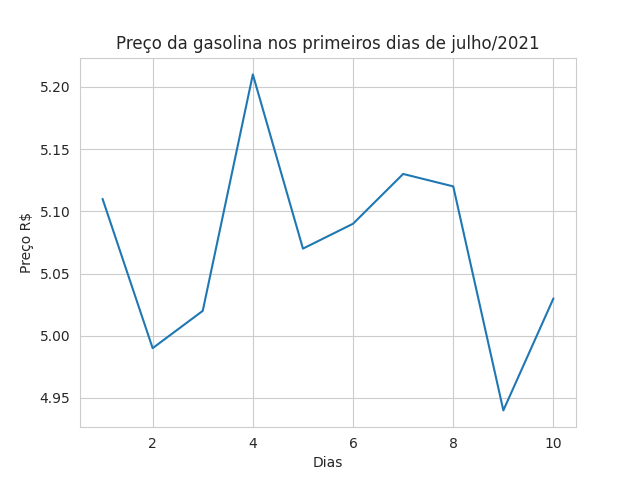
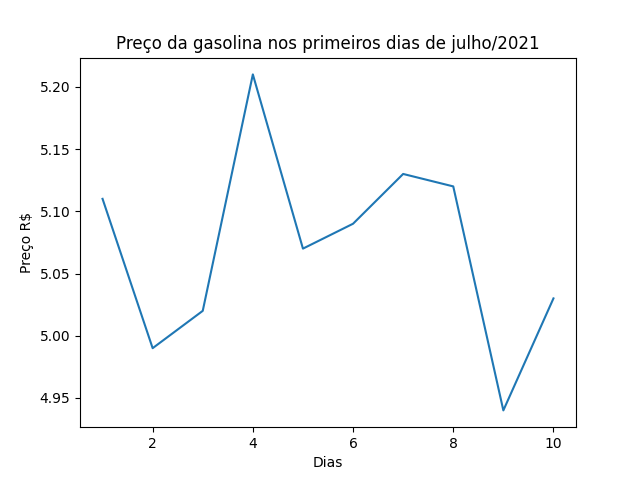
removendo whitegrid e salvando no developer

diff --git a/gasolina.py b/gasolina.py
@@ -1,7 +1,6 @@
 import seaborn as sns
 import pandas as pd
 gasolina = pd.read_csv('gasolina.csv', sep=',')
-with sns.axes_style('whitegrid'):
-  grafico = sns.lineplot(x='dia', y='venda', data=gasolina)
-  grafico.set(title='Preço da gasolina nos primeiros dias de julho/2021', xlabel='Dias', ylabel='Preço R$');
-  grafico.get_figure().savefig('gasolina.png')
+grafico = sns.lineplot(x='dia', y='venda', data=gasolina)
+grafico.set(title='Preço da gasolina nos primeiros dias de julho/2021', xlabel='Dias', ylabel='Preço R$');
+grafico.get_figure().savefig('gasolina.png')
